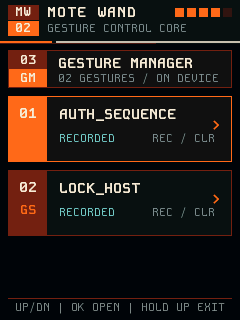
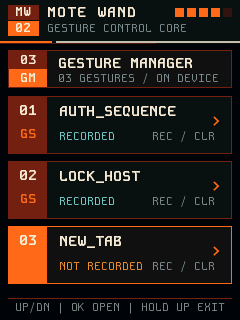
feat: add new-tab gesture macro

diff --git a/main/ui_fui.c b/main/ui_fui.c
@@ -14,6 +14,10 @@ LV_FONT_DECLARE(ui_font_kode_bold_21);
 #define BATTERY_SEGMENT_GAP        3
 #define LINK_RSSI_LIVE_THRESHOLD (-44)
 
+static const char *const s_menu_indices[UI_FUI_MENU_ITEMS] = {
+    "01", "02", "03",
+};
+
 static lv_obj_t *box(lv_obj_t *parent, int x, int y, int width, int height,
                      uint32_t background, lv_opa_t opacity)
 {
@@ -387,33 +391,35 @@ void ui_fui_create_with_typography(ui_fui_t *ui,
           ui->typography.strong, UI_FUI_CREAM);
     label(manager_header, "GESTURE MANAGER", 49, 4,
           ui->typography.title, UI_FUI_CREAM);
-    label(manager_header, "02 GESTURES / ON DEVICE", 49, 21,
+    label(manager_header, "03 GESTURES / ON DEVICE", 49, 21,
           ui->typography.meta, UI_FUI_MUTED);
 
-    ui->menu_list = box(ui->menu_layer, 8, 52, 224, 178,
+    ui->menu_list = box(ui->menu_layer, 8, 52, 224, 194,
                         UI_FUI_BG, LV_OPA_TRANSP);
     for (unsigned i = 0; i < UI_FUI_MENU_ITEMS; i++) {
-        int y = (int)i * 74;
-        ui->menu_rows[i] = box(ui->menu_list, 0, y, 224, 66,
+        int y = (int)i * 65;
+        ui->menu_rows[i] = box(ui->menu_list, 0, y, 224, 58,
                                UI_FUI_PANEL, LV_OPA_COVER);
         lv_obj_set_style_border_width(ui->menu_rows[i], 1, 0);
         lv_obj_set_style_border_color(ui->menu_rows[i],
                                       lv_color_hex(UI_FUI_RUST), 0);
-        ui->menu_row_index[i] = box(ui->menu_rows[i], 0, 0, 38, 64,
+        ui->menu_row_index[i] = box(ui->menu_rows[i], 0, 0, 38, 56,
                                     UI_FUI_RUST, LV_OPA_COVER);
-        label(ui->menu_row_index[i], i == 0U ? "01" : "02", 10, 8,
+        label(ui->menu_row_index[i], s_menu_indices[i], 10, 5,
               ui->typography.title, UI_FUI_CREAM);
-        label(ui->menu_row_index[i], "GS", 11, 32,
+        label(ui->menu_row_index[i], "GS", 11, 30,
               ui->typography.strong, UI_FUI_ORANGE);
-        ui->menu_row_name[i] = label(ui->menu_rows[i], "MACRO", 50, 9,
+        ui->menu_row_name[i] = label(ui->menu_rows[i], "MACRO", 50, 6,
                                      ui->typography.title, UI_FUI_CREAM);
-        ui->menu_row_state[i] = label(ui->menu_rows[i], "NOT RECORDED", 50, 35,
+        lv_obj_set_size(ui->menu_row_name[i], 145, 19);
+        lv_label_set_long_mode(ui->menu_row_name[i], LV_LABEL_LONG_CLIP);
+        ui->menu_row_state[i] = label(ui->menu_rows[i], "NOT RECORDED", 50, 33,
                                       ui->typography.meta, UI_FUI_MUTED);
         lv_obj_set_size(ui->menu_row_state[i], 88, 16);
         lv_label_set_long_mode(ui->menu_row_state[i], LV_LABEL_LONG_CLIP);
-        label(ui->menu_rows[i], "REC / CLR", 143, 35,
+        label(ui->menu_rows[i], "REC / CLR", 143, 33,
               ui->typography.meta, UI_FUI_MUTED);
-        label(ui->menu_rows[i], ">", 203, 20,
+        label(ui->menu_rows[i], ">", 203, 16,
               ui->typography.title, UI_FUI_ORANGE);
     }
 
@@ -761,7 +767,7 @@ void ui_fui_set_manager(ui_fui_t *ui, ui_fui_manager_view_t view,
         bool trained = (valid_mask & (1U << selected)) != 0U;
         lv_obj_add_flag(ui->menu_list, LV_OBJ_FLAG_HIDDEN);
         lv_obj_remove_flag(ui->menu_detail, LV_OBJ_FLAG_HIDDEN);
-        lv_label_set_text(ui->menu_detail_index, selected == 0U ? "01" : "02");
+        lv_label_set_text(ui->menu_detail_index, s_menu_indices[selected]);
         lv_label_set_text(ui->menu_detail_name,
                           names[selected] ? names[selected] : "UNNAMED");
         lv_label_set_text(ui->menu_detail_state,

diff --git a/main/gesture_key.c b/main/gesture_key.c
@@ -68,6 +68,8 @@ static const char *TAG = "gesture_key";
 
 #define HID_KEY_ENTER                 0x28U
 #define HID_KEY_L                     0x0FU
+#define HID_KEY_T                     0x17U
+#define HID_MOD_LEFT_CTRL             0x01U
 #define HID_MOD_LEFT_GUI              0x08U
 #define ACTION_SEQUENCE_MAX_LENGTH    32U
 #define ACTION_SEQUENCE_DIGITS         6U
@@ -143,15 +145,19 @@ _Static_assert(sizeof(s_action_sequence) == 1U ||
                "Mote Wand HID action sequence must be empty or six digits");
 _Static_assert(sizeof(s_boot_pin) == GESTURE_KEY_PIN_DIGITS + 1U,
                "Mote Wand boot PIN must be four digits");
+_Static_assert(GESTURE_MACRO_COUNT <= 8U,
+               "Gesture model mask only supports eight macros");
 
 static const char *const s_macro_names[GESTURE_MACRO_COUNT] = {
     [GESTURE_MACRO_AUTH_SEQUENCE] = GESTURE_MACRO_AUTH_SEQUENCE_NAME,
     [GESTURE_MACRO_LOCK_HOST] = GESTURE_MACRO_LOCK_HOST_NAME,
+    [GESTURE_MACRO_NEW_TAB] = GESTURE_MACRO_NEW_TAB_NAME,
 };
 
 static const char *const s_model_keys[GESTURE_MACRO_COUNT] = {
     [GESTURE_MACRO_AUTH_SEQUENCE] = "auth_v2",
     [GESTURE_MACRO_LOCK_HOST] = "lock_v2",
+    [GESTURE_MACRO_NEW_TAB] = "tab_v2",
 };
 
 static struct ble_hs_adv_fields s_adv_fields;
@@ -589,6 +595,9 @@ static esp_err_t execute_macro(gesture_macro_t macro)
         // Windows lock shortcut. The BLE HID report is released immediately
         // after the chord so no modifier can remain latched on the host.
         return send_key_report(HID_MOD_LEFT_GUI, HID_KEY_L);
+    case GESTURE_MACRO_NEW_TAB:
+        // Ctrl+T opens a tab in Chrome and other common Windows browsers.
+        return send_key_report(HID_MOD_LEFT_CTRL, HID_KEY_T);
     default:
         return ESP_ERR_INVALID_ARG;
     }

diff --git a/tests/test_gesture_model.c b/tests/test_gesture_model.c
@@ -102,7 +102,7 @@ int main(void)
     assert(softer_score >= 75.0f);
     assert(wrong_score < 70.0f);
 
-    gesture_signature_t models[2] = {reference, wrong};
+    gesture_signature_t models[3] = {reference, wrong, noisy};
     size_t best = SIZE_MAX;
     size_t second = SIZE_MAX;
     float best_match = 0.0f;
@@ -112,12 +112,17 @@ int main(void)
                                       &best_match, &second_match) ==
            GESTURE_CLASSIFY_MATCH);
     assert(best == 0U && best_match >= 75.0f);
+    assert(gesture_signature_classify(&noisy, models, 0x04U, 3U, 75.0f,
+                                      70.0f, 8.0f, &best, &second,
+                                      &best_match, &second_match) ==
+           GESTURE_CLASSIFY_MATCH);
+    assert(best == 2U && best_match > 99.0f);
     assert(gesture_signature_classify(&wrong, models, 0x01U, 2U, 75.0f,
                                       70.0f, 8.0f, &best, &second,
                                       &best_match, &second_match) ==
            GESTURE_CLASSIFY_NO_MATCH);
     models[1] = reference;
-    assert(gesture_signature_classify(&reference, models, 0x03U, 2U, 75.0f,
+    assert(gesture_signature_classify(&reference, models, 0x07U, 3U, 75.0f,
                                       70.0f, 8.0f, &best, &second,
                                       &best_match, &second_match) ==
            GESTURE_CLASSIFY_AMBIGUOUS);

diff --git a/main/main.c b/main/main.c
@@ -29,6 +29,8 @@ _Static_assert(UI_FUI_TRACE_AXES == GESTURE_KEY_TRACE_AXES,
                "UI and gesture trace axes must match");
 _Static_assert(UI_FUI_PIN_DIGITS == GESTURE_KEY_PIN_DIGITS,
                "UI and gesture PIN lengths must match");
+_Static_assert(UI_FUI_MENU_ITEMS == GESTURE_MACRO_COUNT,
+               "UI and gesture macro counts must match");
 
 static ui_fui_t s_ui;
 static gesture_key_state_t s_last_state = (gesture_key_state_t)-1;
@@ -287,8 +289,12 @@ static void ui_tick(lv_timer_t *timer)
         state == GESTURE_KEY_MENU_CLEAR_DONE ||
         state == GESTURE_KEY_MENU_CLEAR_ERROR) {
         const char *names[UI_FUI_MENU_ITEMS] = {
-            gesture_key_macro_name(GESTURE_MACRO_AUTH_SEQUENCE),
-            gesture_key_macro_name(GESTURE_MACRO_LOCK_HOST),
+            [GESTURE_MACRO_AUTH_SEQUENCE] =
+                gesture_key_macro_name(GESTURE_MACRO_AUTH_SEQUENCE),
+            [GESTURE_MACRO_LOCK_HOST] =
+                gesture_key_macro_name(GESTURE_MACRO_LOCK_HOST),
+            [GESTURE_MACRO_NEW_TAB] =
+                gesture_key_macro_name(GESTURE_MACRO_NEW_TAB),
         };
         ui_fui_manager_view_t view = UI_FUI_MANAGER_LIST;
         if (state == GESTURE_KEY_MENU_DETAIL) {

diff --git a/simulator/main.c b/simulator/main.c
@@ -208,7 +208,7 @@ static void make_link_history(ui_fui_t *ui)
 static bool configure_state(ui_fui_t *ui, const char *state)
 {
     static const char *const names[UI_FUI_MENU_ITEMS] = {
-        "AUTH_SEQUENCE", "LOCK_HOST",
+        "AUTH_SEQUENCE", "LOCK_HOST", "NEW_TAB",
     };
     int16_t trace[UI_FUI_TRACE_POINTS][UI_FUI_TRACE_AXES];
     make_trace(trace);
@@ -236,10 +236,10 @@ static bool configure_state(ui_fui_t *ui, const char *state)
         ui_fui_set_trace(ui, trace, UI_FUI_TRACE_POINTS);
         ui_fui_set_trace_result(ui, UI_FUI_TRACE_RESULT_PASS);
     } else if (strcmp(state, "menu") == 0) {
-        ui_fui_set_manager(ui, UI_FUI_MANAGER_LIST, 0U, 0U,
+        ui_fui_set_manager(ui, UI_FUI_MANAGER_LIST, 2U, 0U,
                            UI_FUI_CONFIRM_CANCEL, 0x03U, names);
     } else if (strcmp(state, "detail") == 0) {
-        ui_fui_set_manager(ui, UI_FUI_MANAGER_DETAIL, 1U, 1U,
+        ui_fui_set_manager(ui, UI_FUI_MANAGER_DETAIL, 2U, 0U,
                            UI_FUI_CONFIRM_CANCEL, 0x03U, names);
     } else if (strcmp(state, "clear-confirm") == 0) {
         ui_fui_set_manager(ui, UI_FUI_MANAGER_CLEAR_CONFIRM, 1U, 1U,

diff --git a/main/gesture_key.h b/main/gesture_key.h
@@ -9,6 +9,7 @@
 
 #define GESTURE_MACRO_AUTH_SEQUENCE_NAME "AUTH_SEQUENCE"
 #define GESTURE_MACRO_LOCK_HOST_NAME     "LOCK_HOST"
+#define GESTURE_MACRO_NEW_TAB_NAME       "NEW_TAB"
 #define GESTURE_KEY_TRACE_POINTS          32U
 #define GESTURE_KEY_TRACE_AXES             3U
 #define GESTURE_KEY_PIN_DIGITS             4U
@@ -17,6 +18,7 @@
 typedef enum {
     GESTURE_MACRO_AUTH_SEQUENCE = 0,
     GESTURE_MACRO_LOCK_HOST,
+    GESTURE_MACRO_NEW_TAB,
     GESTURE_MACRO_COUNT,
     GESTURE_MACRO_NONE = 0xFF,
 } gesture_macro_t;

diff --git a/main/ui_fui.h b/main/ui_fui.h
@@ -23,7 +23,7 @@
 #define UI_FUI_MUTED       0x829097U
 
 #define UI_FUI_BATTERY_SEGMENTS   5U
-#define UI_FUI_MENU_ITEMS         2U
+#define UI_FUI_MENU_ITEMS         3U
 #define UI_FUI_MENU_ACTIONS       2U
 #define UI_FUI_PIN_DIGITS         4U
 #define UI_FUI_TRACE_POINTS      32U

diff --git a/README.md b/README.md
@@ -19,6 +19,7 @@
 
 - `AUTH_SEQUENCE`：输入本地配置的数字按键序列并发送回车。
 - `LOCK_HOST`：向 Windows 主机发送 `Win+L` 锁屏快捷键。
+- `NEW_TAB`：向当前前台浏览器发送 `Ctrl+T`；Chrome 中会新建标签页。
 - 独立四位启动 PIN（默认 `0000`）：解锁前不启动 BLE 广播，`UP` / `DOWN` 选数字，`OK` 确认。
 - 手势管理器：按宏定义名称列出模型，可直接重录或单独清除。
 - 每个宏三次录入，并自动定位偏差较大的样本。
@@ -89,4 +90,4 @@ bash simulator/preview.sh
 
 ## 安全边界
 
-这是便利型自动化工具，不是安全密钥。启动 PIN 只用于阻止随手操作，配置仍存在固件中；`LOCK_HOST` 当前固定为 Windows 的 `Win+L`，macOS、Linux 和手机需要另行定义快捷键。BLE 首次配对采用无输入设备常用的 Secure Connections Just Works，不具备 MITM 认证；未启用 Flash Encryption 的设备也可能被物理读取固件中的动作序列。产品化时应启用 Secure Boot、Flash Encryption，并优先使用可撤销的凭据而不是系统主密码。
+这是便利型自动化工具，不是安全密钥。启动 PIN 只用于阻止随手操作，配置仍存在固件中；`LOCK_HOST` 当前固定为 Windows 的 `Win+L`，`NEW_TAB` 固定为 `Ctrl+T` 且作用于当前前台程序，macOS、Linux 和手机需要按各自快捷键另行定义。BLE 首次配对采用无输入设备常用的 Secure Connections Just Works，不具备 MITM 认证；未启用 Flash Encryption 的设备也可能被物理读取固件中的动作序列。产品化时应启用 Secure Boot、Flash Encryption，并优先使用可撤销的凭据而不是系统主密码。
